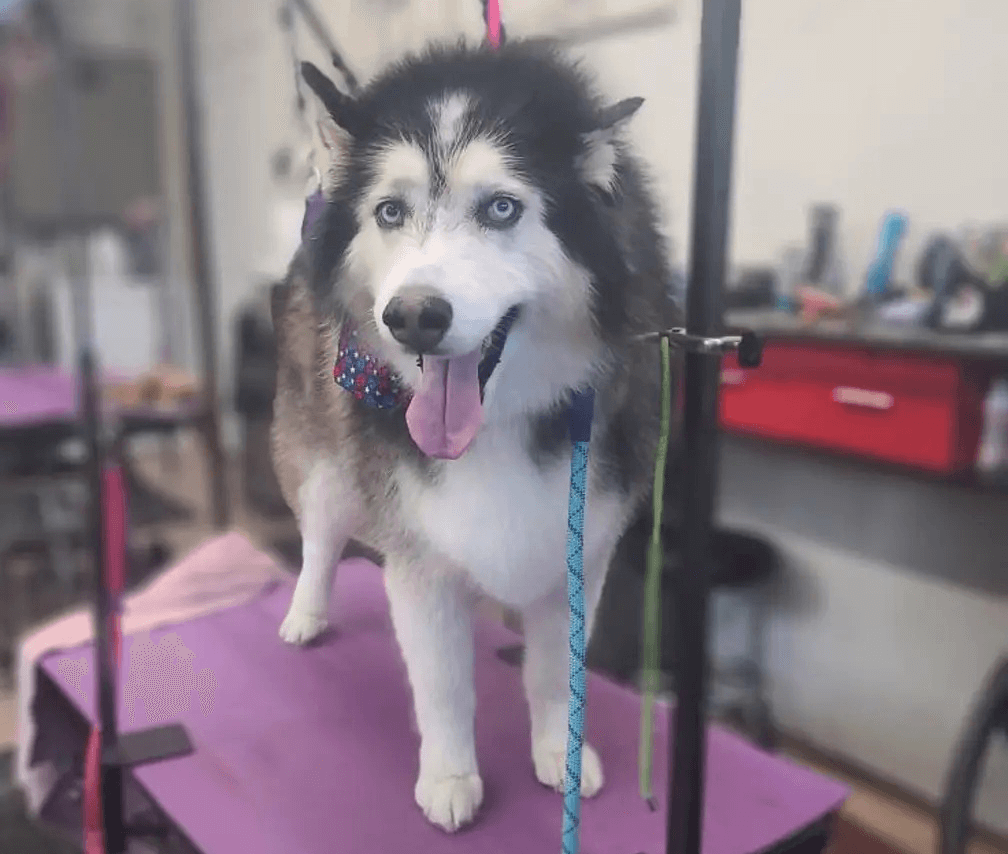
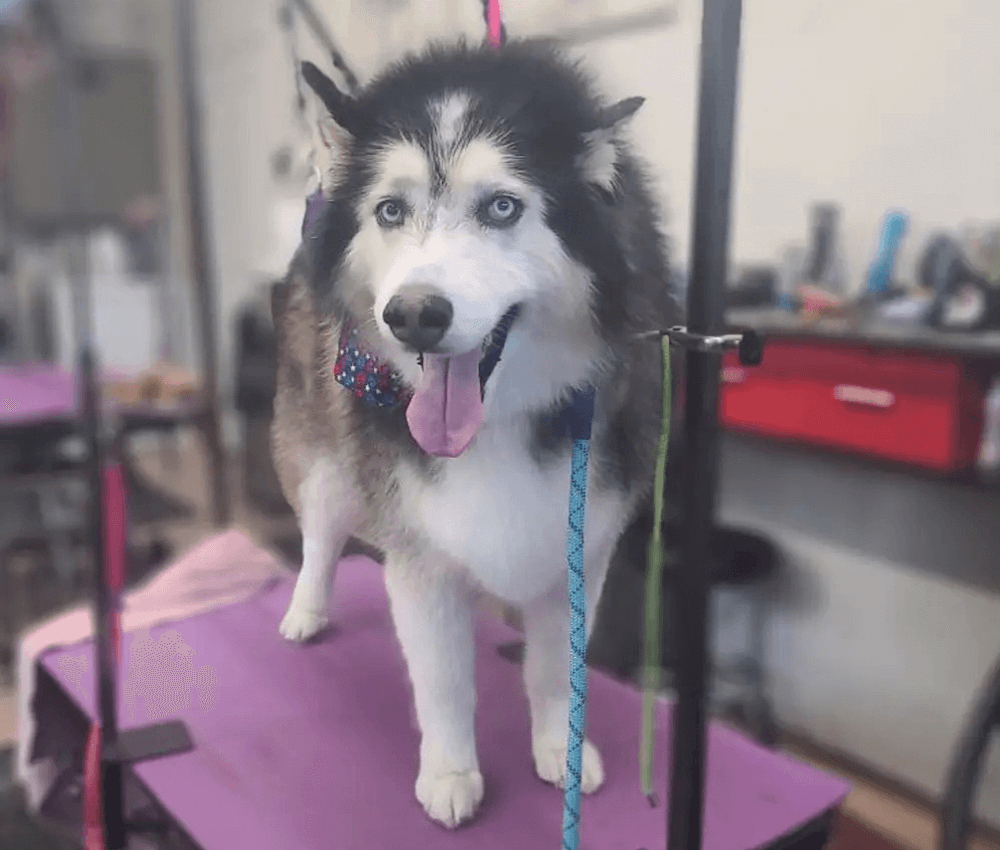
relative aspect ratios

diff --git a/index.html b/index.html
@@ -59,14 +59,14 @@
                   <h2 class="display-5">Small</h2>
                   <p class="lead">Prices start at $55-$60.</p>
                </div>
-               <img src="small.png" width="80%" height="400px" style="border-radius: 21px;" />
+               <img src="small.png" width="80%" height="60%" style="border-radius: 21px;" />
             </div>
             <div class="bg-body-tertiary me-md-3 pt-3 px-3 pt-md-5 px-md-5 text-center overflow-hidden">
                <div class="my-3 p-3">
                   <h2 class="display-5">Medium</h2>
                   <p class="lead">Prices start at $65-$75.</p>
                </div>
-               <img src="medium.png" width="80%" height="400px" style="border-radius: 21px;" />
+               <img src="medium.png" width="80%" height="60%" style="border-radius: 21px;" />
             </div>
          </div>
          <div class="d-md-flex flex-md-equal w-100 my-md-3 ps-md-3">
@@ -75,15 +75,15 @@
                   <h2 class="display-5">Large</h2>
                   <p class="lead">Prices start at $80-$90.</p>
                </div>
-               <img src="large.png" width="80%" height="400px" style="border-radius: 21px;" />
+               <img src="large.png" width="80%" height="60%" style="border-radius: 21px;" />
             </div>
             <div class="bg-body-tertiary me-md-3 pt-3 px-3 pt-md-5 px-md-5 text-center overflow-hidden">
                <div class="my-3 p-3">
                   <h2 class="display-5">Services</h2>
 				  <p class="lead">Trim, nail, bath, deshedding, and more!</p>
                </div>
-               <div class="bg-dark shadow-sm mx-auto" style="padding-top: 2.5%; width: 80%;  height=400px; border-radius: 21px;">
-			   <img src="shears.png" width="80%" height="382px" />
+               <div class="bg-dark shadow-sm mx-auto" style="padding-top: 2.5%; width: 80%;  height:60%; border-radius: 21px;">
+			   <img src="shears.png" width="80%" height="95%" />
                </div>
             </div>
          </div>
